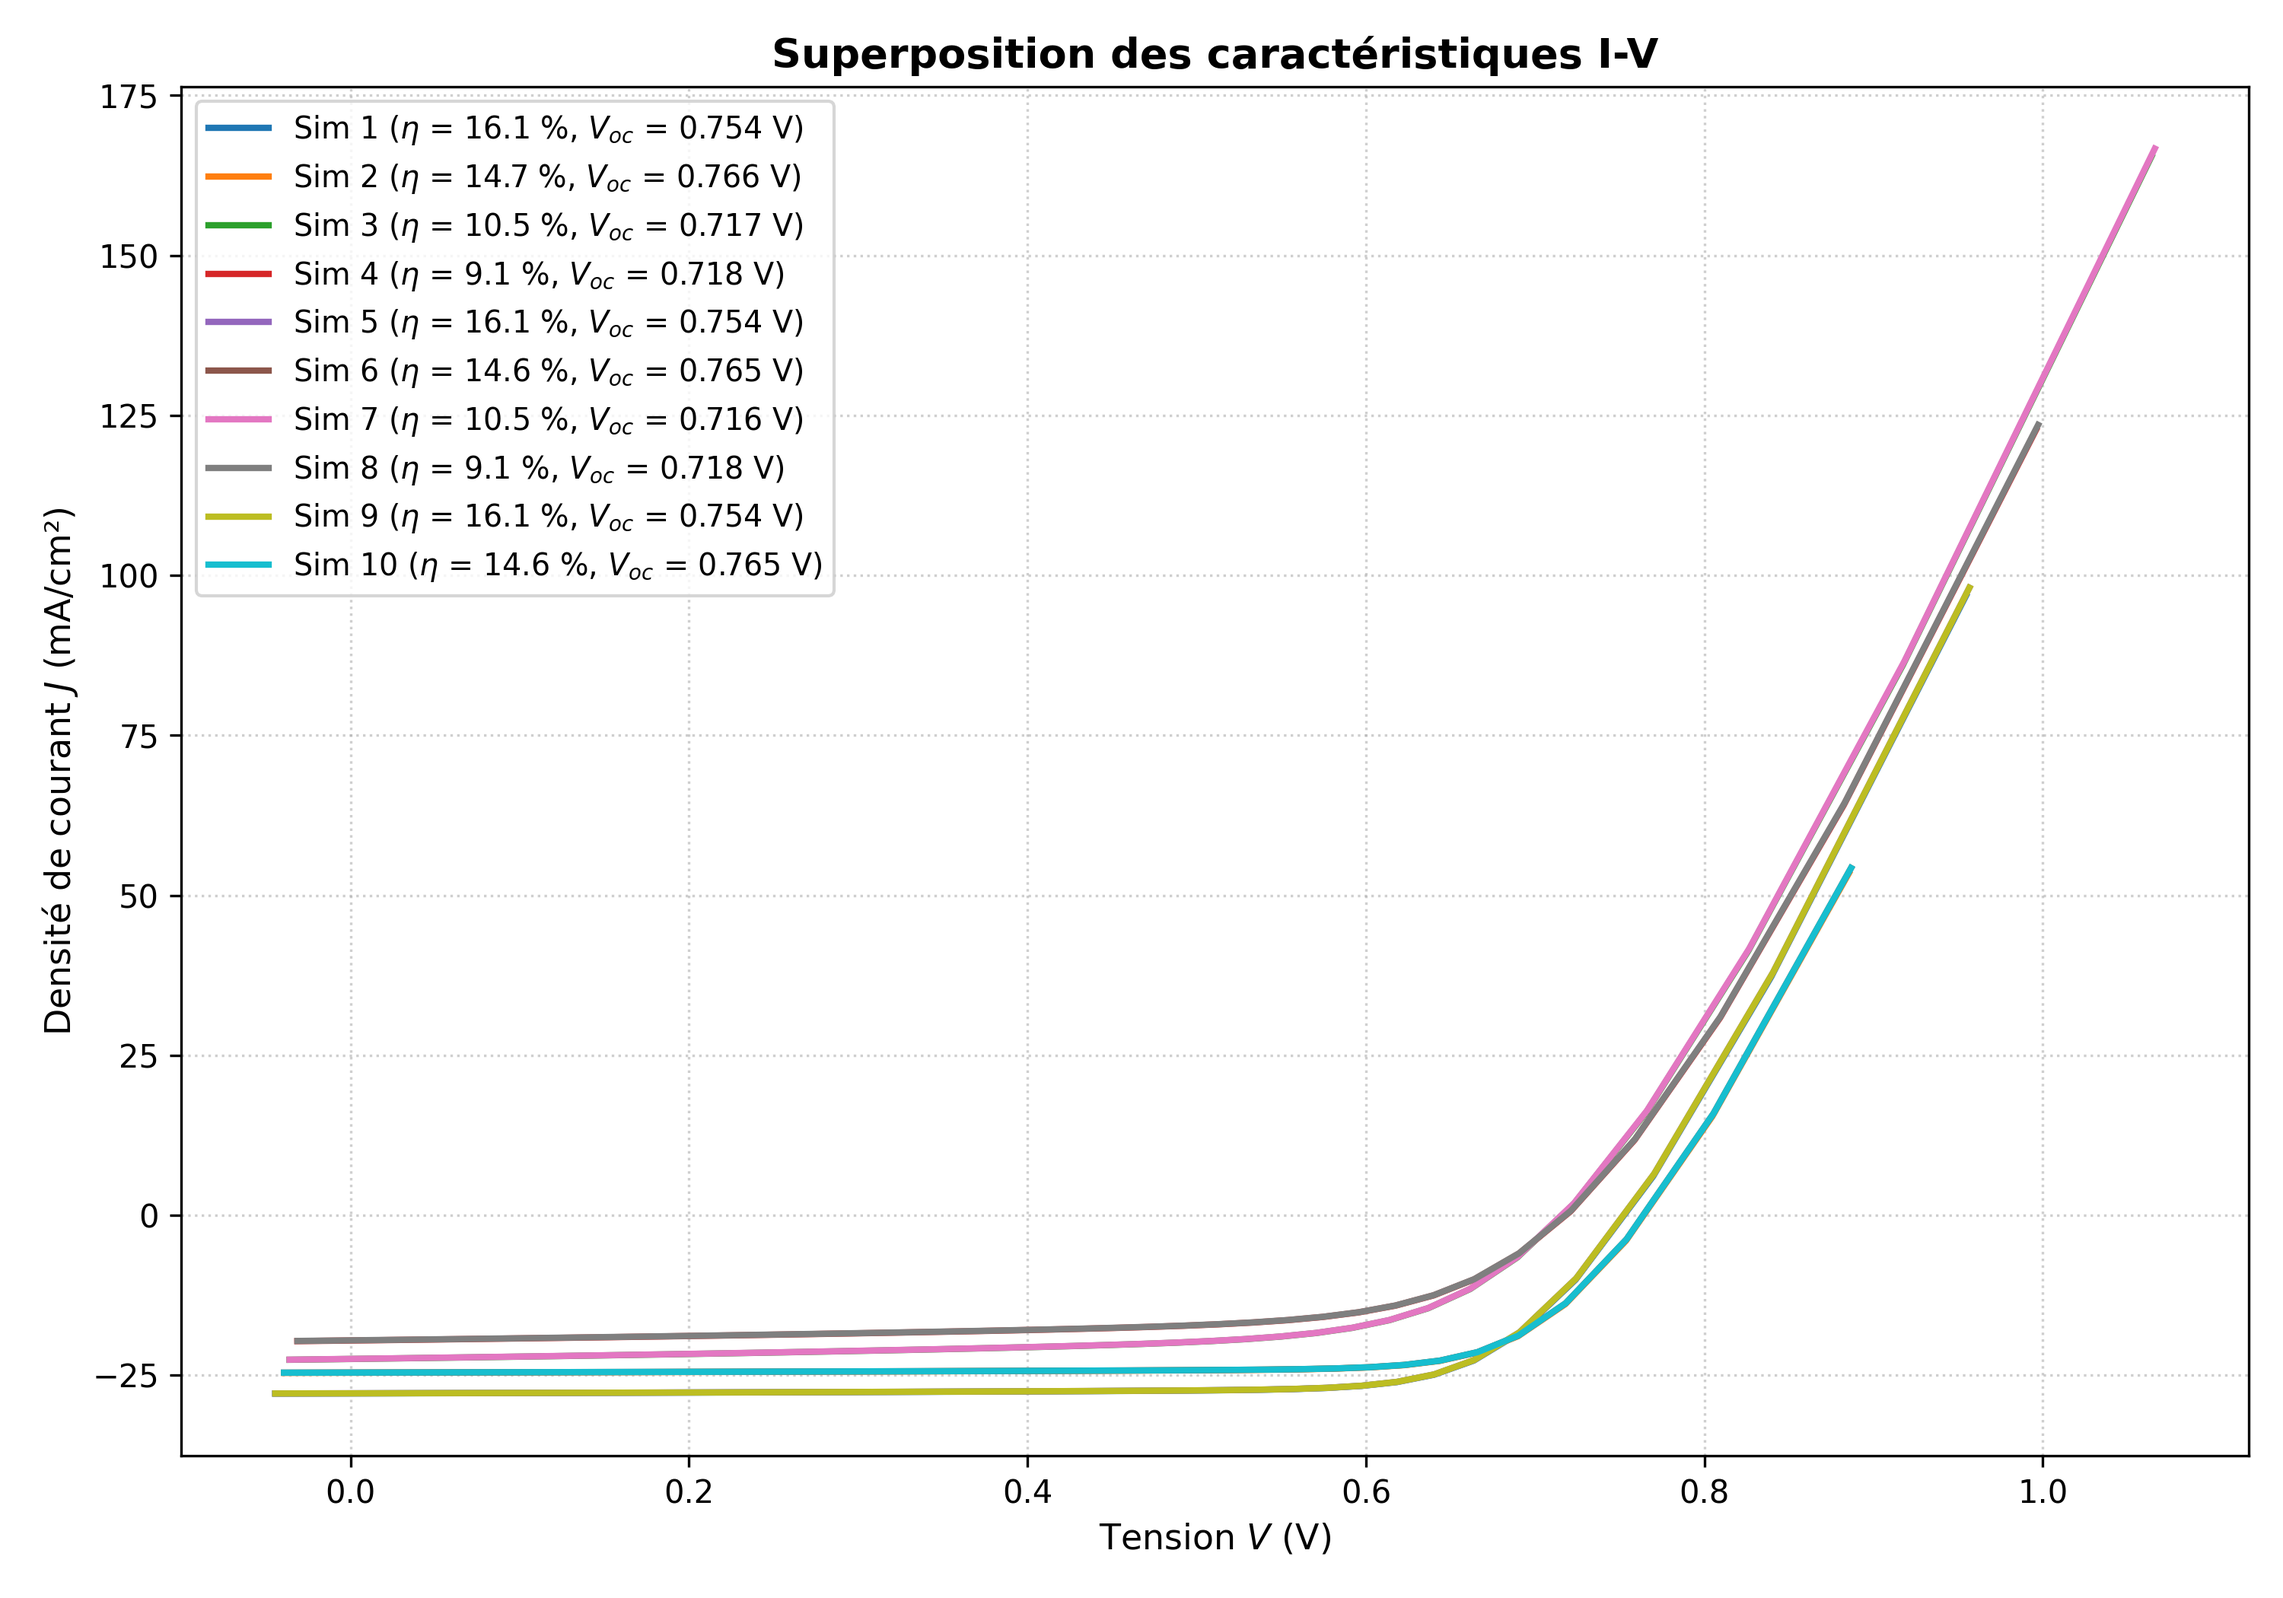
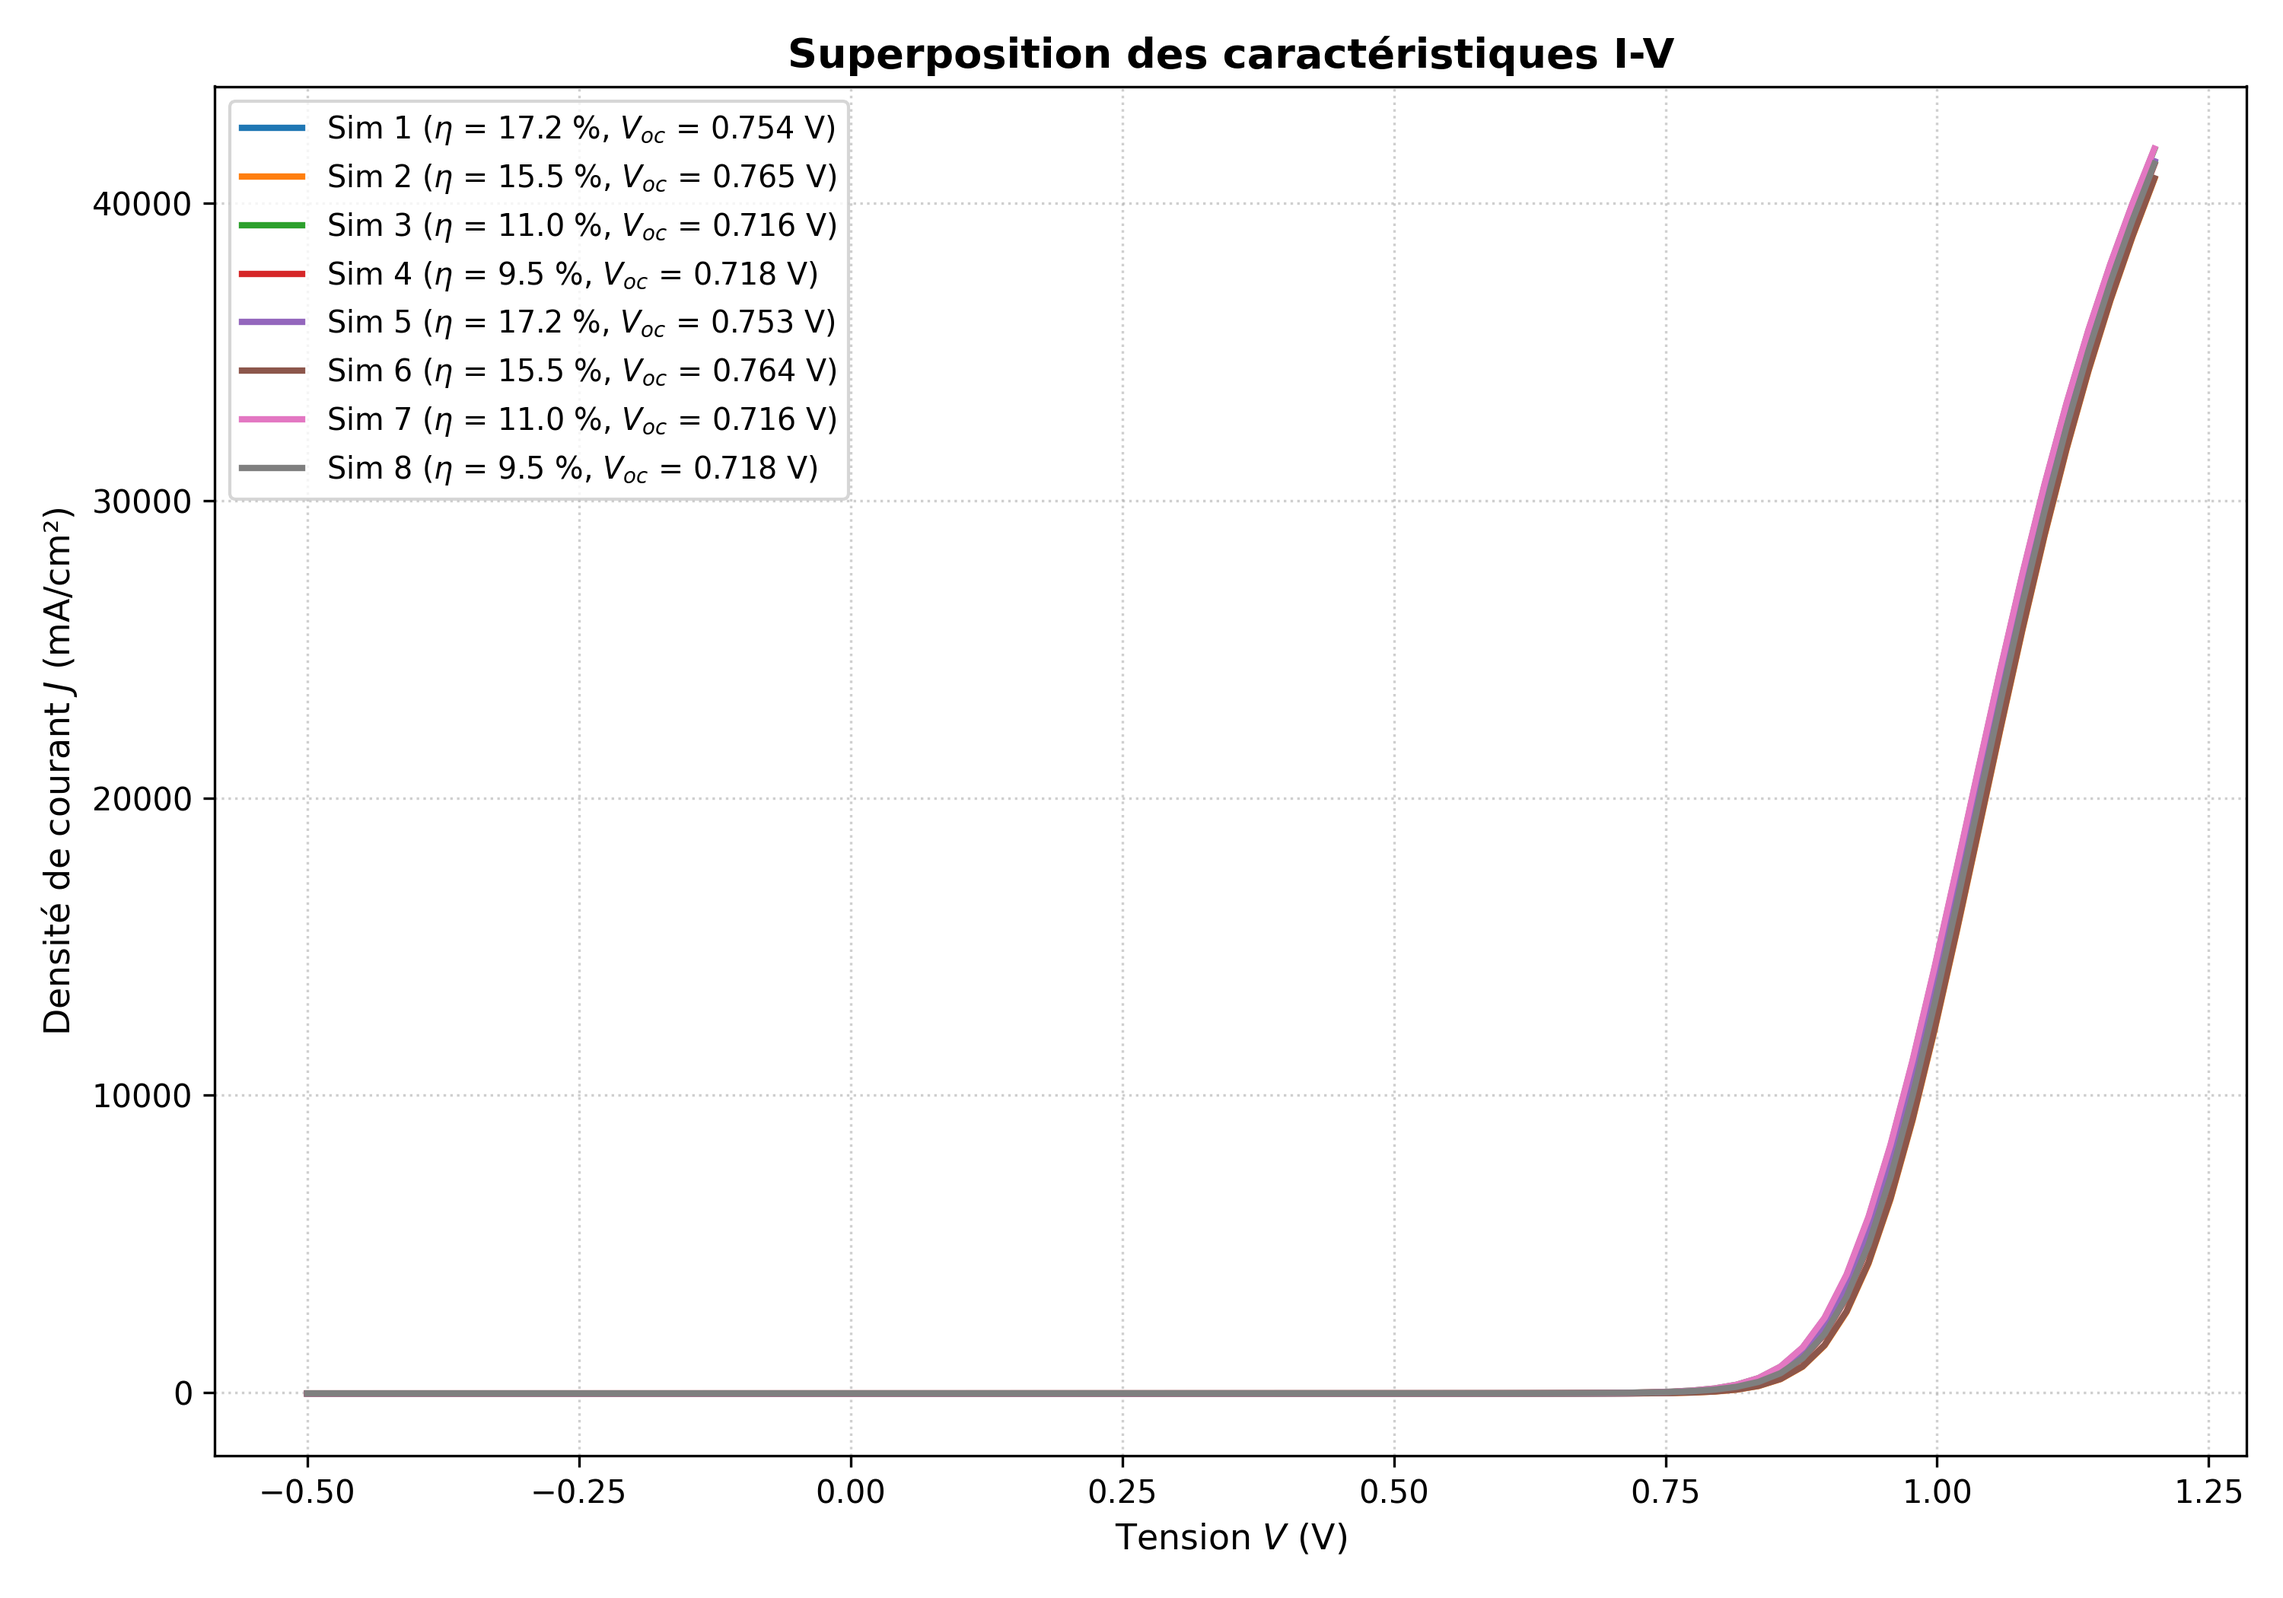
feature - plage de tension -0.5 to 1.2

diff --git a/scaps_batch_simulation.py b/scaps_batch_simulation.py
@@ -47,10 +47,18 @@ def run_scaps_batch_simulation(simulation_name, batch_name):
         f'load definitionfile {BASELINE_NAME}\n'
         f'load spectrumfile AM1_5G 1 sun.spe\n'
         f'load batchsettingsfile {batch_name}.sbf\n'
-        
+
         # mise en place des settings
         f'action light\n'
-        f'action iv.checkaction\n'        
+        f'action iv.checkaction 1\n'
+
+        # fixer un intervalle de tension
+        f'action iv.startV -0.5\n'
+        f'action iv.stopV 1.2\n'
+        f'action iv.points 85\n'
+
+        # valeur des paramètres fixes
+        f'set external.Rs 1E-30\n' # résistance série
         
         # obtention des résultats
         f'calculate batch\n'

diff --git a/config.py b/config.py
@@ -29,7 +29,7 @@ P0_LABEL3 = "IF Nt total"
 P0_LABEL4 = "nihil"
 DEFAULT_DENSITY_SURFACE_FROM = 5e14
 DEFAULT_DENSITY_SURFACE_TO = 5e15
-DEFAULT_DENSITY_SURFACE_STEPS = 10
+DEFAULT_DENSITY_SURFACE_STEPS = 2
 
 P1_LABEL1 = "layer 1"
 P1_LABEL2 = "defect 1"
